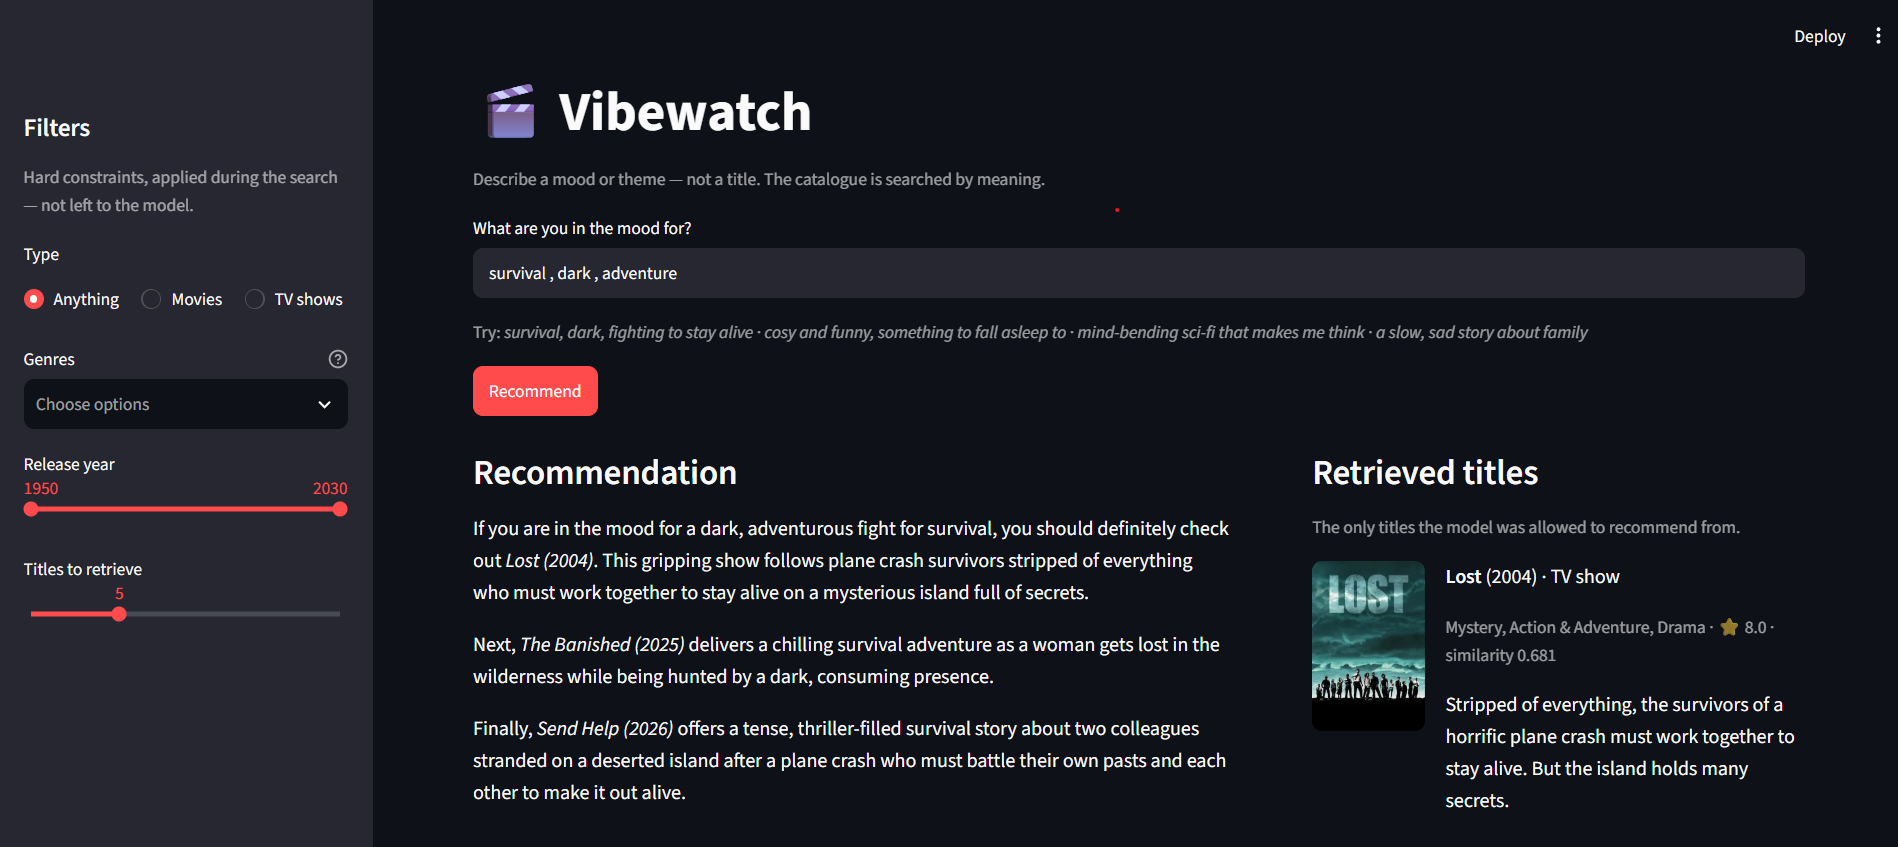
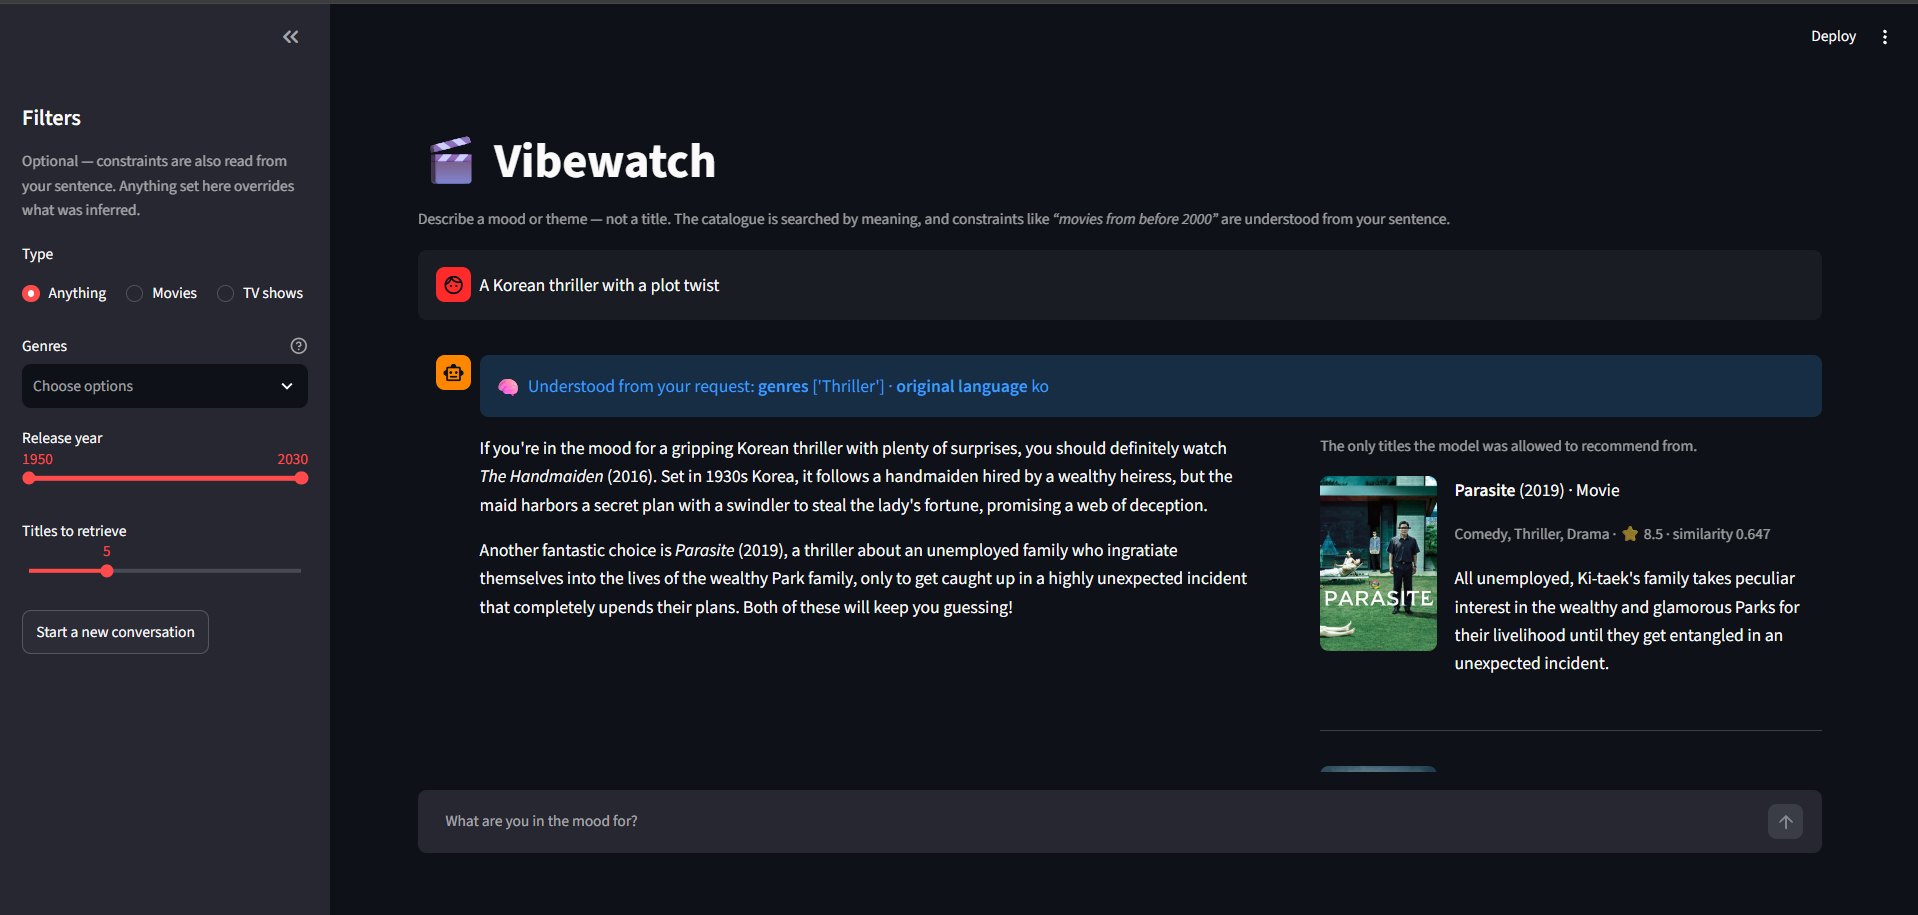
Update screenshot to the chat UI

Changed region(s): [[0.0, 0.0, 1.0, 1.0]]

diff --git a/README.md b/README.md
@@ -13,11 +13,15 @@ This is a classic **RAG flow** (Retrieval-Augmented Generation):
 first **retrieval** (fetch matching movies from the vector DB), then **generation**
 (the LLM reasons — but *only* based on the retrieved movies, so it doesn't hallucinate).
 
-![The Vibewatch UI: a mood query, the generated recommendation, and the retrieved titles it was based on](docs/screenshot.png)
+![The Vibewatch chat UI: the request "A Korean thriller with a plot twist", a banner showing the constraints understood from it (genre Thriller, original language ko), the generated recommendation, and the retrieved titles it was based on](docs/screenshot.png)
 
 The layout is the argument: the written recommendation sits **next to the titles it was
 generated from**. A recommender that only shows prose asks you to trust it; showing the
 retrieved evidence lets anyone check the answer against its sources.
+
+Note the banner above the answer. Nobody selected a genre or a language — both were read
+out of the sentence *"A Korean thriller with a plot twist"* and applied as real database
+filters, and the app says so rather than narrowing the catalogue silently.
 
 ---
 
